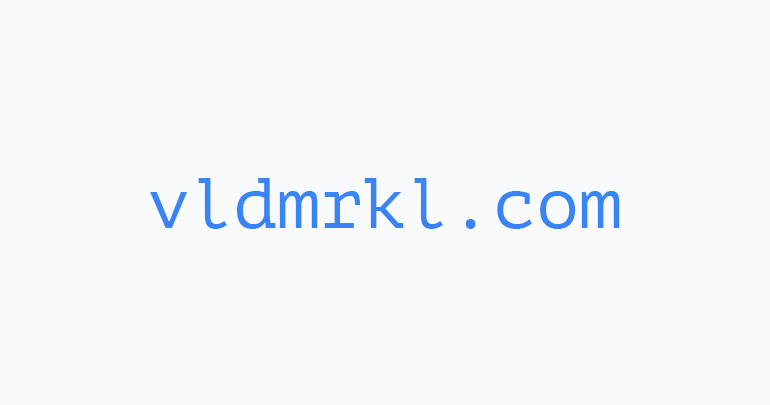
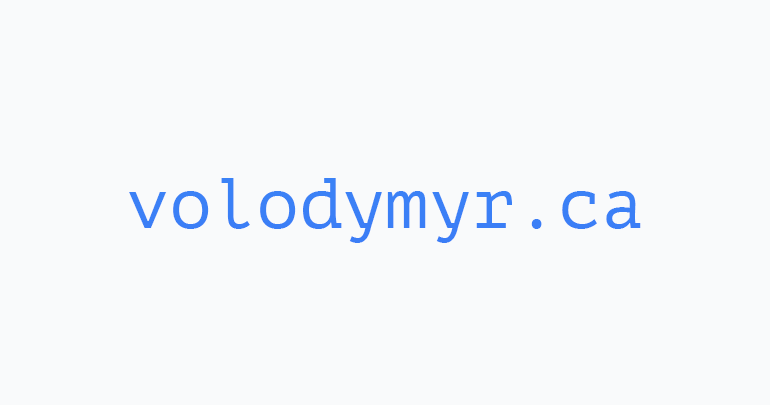
switch to the new domain

Changed region(s): [[0.1558, 0.4444, 0.8416, 0.6222]]

diff --git a/app/pages/index/OpenSource.jsx b/app/pages/index/OpenSource.jsx
@@ -19,7 +19,7 @@ export default function OpenSource() {
           className="text-zinc-800 hover:text-blue-500 underline"
           target="_blank"
           rel="noopener noreferrer"
-          href="https://vldmrkl.com/blog/from-writing-unit-tests-to-working-on-the-software-from-mozilla-microsoft-and-airbnb/"
+          href="https://volodymyr.ca/blog/from-writing-unit-tests-to-working-on-the-software-from-mozilla-microsoft-and-airbnb/"
         >
           one of my blog posts
         </a>

diff --git a/app/utils/rss.server.js b/app/utils/rss.server.js
@@ -30,7 +30,7 @@ export async function buildRssString(reqHeaders) {
         <link>${blogUrl}</link>
         <description>The blog of Volodymyr Klymenko about software development.</description>
         <language>en-us</language>
-        <generator>vldmrkl.com</generator>
+        <generator>volodymyr.ca</generator>
         <ttl>40</ttl>
         ${posts
           .map((post) =>

diff --git a/app/pages/common/Header.jsx b/app/pages/common/Header.jsx
@@ -9,7 +9,7 @@ export default function Header() {
           className="text-lg font-mono font-medium hover:text-blue-500"
           to={'/'}
         >
-          vldmrkl.com
+          volodymyr.ca
         </Link>
         <ul className="sm:flex sm:flex-row ml-auto">
           {links.map((link) => {

diff --git a/app/utils/constants.js b/app/utils/constants.js
@@ -1,1 +1,1 @@
-export const SITE_BASE_URL = 'https://vldmrkl.com';
+export const SITE_BASE_URL = 'https://volodymyr.ca';

diff --git a/README.md b/README.md
@@ -1,4 +1,4 @@
-# vldmrkl.com
+# volodymyr.ca
 
 This website is built with [Remix](https://remix.run/) and [Tailwind CSS](https://tailwindcss.com/)
 
